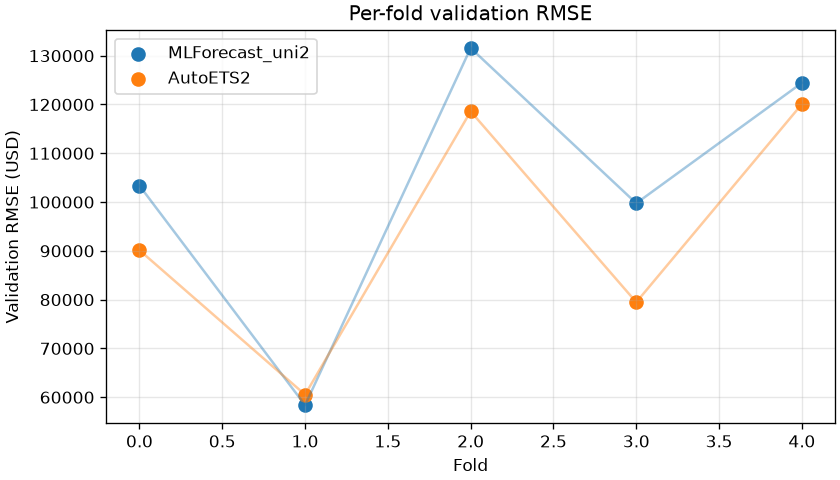
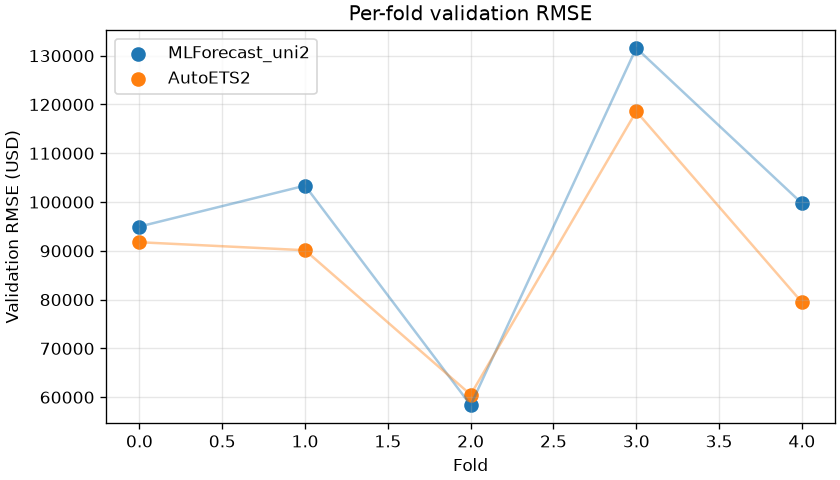
fix: keep diagnostic CV on the training window only
Revert 2024-H1 validation folds so mean±std stays train-only, document thin fold 0, and expand the README Forecast section for temporal CV diagnosis.

diff --git a/data/forecast/diagnostics.py b/data/forecast/diagnostics.py
@@ -56,20 +56,20 @@ PINNED_PRIOR = {
     "best_params": {"n_estimators": 200, "max_depth": None, "max_features": 1.0},
 }
 
-# Five non-overlapping 6-month blocks shifted later so fold 0 is not starved.
-# Span 2022-01…2024-06 (30 months). Fold 5 uses 2024-H1 from the former holdout
-# year for diagnostics only — main pipeline selection/holdout metrics stay on 2024–2025.
+# Five non-overlapping 6-month blocks on the **training window only** (2016–2023).
+# Last 30 months of train → 2021-07…2023-12. Fold 0 is thinner after differencing/`lag_12`
+# (see report note); do not extend into 2024 holdout for diagnostic mean±std.
 DATE_VALIDATION_WINDOWS: list[tuple[pd.Timestamp, pd.Timestamp]] = [
+    (pd.Timestamp("2021-07-01"), pd.Timestamp("2021-12-01")),
     (pd.Timestamp("2022-01-01"), pd.Timestamp("2022-06-01")),
     (pd.Timestamp("2022-07-01"), pd.Timestamp("2022-12-01")),
     (pd.Timestamp("2023-01-01"), pd.Timestamp("2023-06-01")),
     (pd.Timestamp("2023-07-01"), pd.Timestamp("2023-12-01")),
-    (pd.Timestamp("2024-01-01"), pd.Timestamp("2024-06-01")),
 ]
-DIAG_CV_END = pd.Timestamp("2024-06-01")
-PREVIOUS_WINDOWS_NOTE = (
-    "Previous design used 2021-07…2023-12 (train-only). Shifted later to thicken fold 0; "
-    "last fold scores 2024-01…2024-06 for diagnostics only."
+DIAG_CV_END = pd.Timestamp("2023-12-01")
+THIN_FOLD0_NOTE = (
+    "Fold 0 validates 2021-H2; after Differences([12]) + lag_12 dropna, usable n_train is "
+    "small (~31). Treat mean±std as a small-sample estimate inflated by that thin first fold."
 )
 
 
@@ -104,10 +104,7 @@ def _summary(values: list[float]) -> dict[str, float]:
 
 
 def diagnostic_cv_frame(cleaned: pd.DataFrame | None = None) -> pd.DataFrame:
-    """Series for diagnostic temporal CV: history through ``DIAG_CV_END`` (2024-06).
-
-    Includes early 2024 so five shifted 6-month folds fit with a thicker fold-0 train.
-    """
+    """Series for diagnostic temporal CV: **training window only** through ``DIAG_CV_END``."""
     if cleaned is None:
         cleaned = load_clean()
     work = cleaned.copy()
@@ -893,7 +890,8 @@ def run_all(
         "test_size_months": TEST_SIZE,
         "gap": GAP,
         "cv_frame_end": str(DIAG_CV_END.date()),
-        "window_redesign": PREVIOUS_WINDOWS_NOTE,
+        "training_window_only": True,
+        "thin_fold0_note": THIN_FOLD0_NOTE,
         "fold0_n_train": fold0_n_train,
         "selection_cv_defaults": {"n_windows": 5, "h": 6, "step_size": 6},
         "pinned_prior_selection": PINNED_PRIOR,
@@ -1013,14 +1011,13 @@ def write_diagnosis_report(
         "## 2. CV setup & integrity",
         "",
         f"- **Folds:** {cv['n_splits']} (≥5 required) × {cv['test_size_months']}-month "
-        "non-overlapping validation blocks on the diagnostic CV frame "
-        f"(through **{cv.get('cv_frame_end', '2024-06-01')}**).",
-        "- **Why 5×6:** comparable per-fold RMSE across engines; non-overlapping so std is not understated.",
-        f"- **Window redesign:** {cv.get('window_redesign', PREVIOUS_WINDOWS_NOTE)}",
-        f"- **Fold 0 train size:** ML fold 0 has `n_train={cv.get('fold0_n_train', 'n/a')}` "
-        "usable rows after differencing/`lag_12` — shifted later so this is no longer the starved "
-        "31-row fold from the 2021-07 start. Still interpret mean±std as a small-sample (5-fold) estimate.",
-        f"- **Engines:** ML → `sklearn.model_selection.TimeSeriesSplit` "
+        "non-overlapping validation blocks on the **training window only** "
+        f"(through **{cv.get('cv_frame_end', '2023-12-01')}**).",
+        "- **Why 5×6:** comparable per-fold RMSE across engines; non-overlapping so std is not understated. "
+        "Five × 12-month blocks do not fit after `Differences([12])` + `lag_12`.",
+        f"- **Fold 0 train size:** ML fold 0 has `n_train={cv.get('fold0_n_train', 'n/a')}`. "
+        f"{cv.get('thin_fold0_note', THIN_FOLD0_NOTE)}",
+        "- **Engines:** ML → `sklearn.model_selection.TimeSeriesSplit` "
         f"(gap={cv['gap']}); `{ets_label}` → `classical_backtest` / "
         "`StatsForecast.cross_validation` on model `AutoETS` (`n_windows=5`, `h=6`, `step_size=6`).",
         "- **Chronology:** no shuffle; every fold has `max(train ds) < min(val ds)`; "

diff --git a/tests/pipelines/test_temporal_cv_order.py b/tests/pipelines/test_temporal_cv_order.py
@@ -62,10 +62,12 @@ def test_ml_folds_roll_forward_no_overlap(fold_records: dict) -> None:
         assert earlier.isdisjoint(later)
 
 
-def test_fold0_thicker_than_prior_design(fold_records: dict) -> None:
-    """Shifted windows: fold 0 should have more history than the old ~31 usable train rows."""
-    assert fold_records["ml"][0]["n_train_rows"] >= 40
-    assert fold_records["ml"][0]["test_ds"][0] == pd.Timestamp("2022-01-01")
+def test_fold0_on_training_window(fold_records: dict) -> None:
+    """Diagnostic folds stay on train (2021-07…2023-12); fold 0 is the thin earliest block."""
+    assert fold_records["ml"][0]["test_ds"][0] == pd.Timestamp("2021-07-01")
+    assert fold_records["ml"][-1]["test_ds"][-1] == pd.Timestamp("2023-12-01")
+    # After burn-in, fold 0 has fewer usable train rows than later folds
+    assert fold_records["ml"][0]["n_train_rows"] < fold_records["ml"][-1]["n_train_rows"]
 
 
 def test_autoets_at_least_five_cutoffs(fold_records: dict) -> None:

diff --git a/README.md b/README.md
@@ -347,7 +347,7 @@ Further detail: [`memory-bank/references/telemetry_ai_plan/`](./memory-bank/refe
 
 ## Forecast (monthly revenue)
 
-Local Nixtla pipeline (**MLForecast** + **StatsForecast**) for consolidated monthly revenue. Work lands on **`feature/sales_forecast`**; temporal CV / fit diagnosis lands on **`feature/eval_metrics`** (branched from sales forecast).
+Local Nixtla pipeline (**MLForecast** + **StatsForecast**) for consolidated monthly revenue. Base training/reporting lives on **`feature/sales_forecast`**; this branch (**`feature/eval_metrics`**) adds **temporal cross-validation and fit diagnosis**.
 
 Requires the sales CSV at `data/raw/healthcore_sales.csv` (gitignored — local only).
 
@@ -355,10 +355,10 @@ Requires the sales CSV at `data/raw/healthcore_sales.csv` (gitignored — local 
 
 ```bash
 uv sync --group forecast
-uv run python scripts/train_revenue_forecast.py   # train, metrics, figures, forecast report
-# On feature/eval_metrics (after train, or standalone):
-uv run python scripts/run_diagnostics.py         # CV folds, learning curves, fit-diagnosis report
+uv run python scripts/train_revenue_forecast.py   # train, metrics, figures, forecast report (+ diagnostics hook)
+uv run python scripts/run_diagnostics.py         # CV folds, learning curves, fit-diagnosis report (standalone)
 uv run pytest tests/pipelines/test_temporal_cv_order.py -v
+uv run pytest tests/pipelines/ -v                # full forecast/pipeline suite
 ```
 
 ### Where the reports and artifacts are
@@ -368,20 +368,48 @@ uv run pytest tests/pipelines/test_temporal_cv_order.py -v
 | [`data/eval/revenue_forecast/report.md`](./data/eval/revenue_forecast/report.md) | Main forecast report (model comparison, ablation, plots, recommendation) |
 | [`data/eval/revenue_forecast/metrics.json`](./data/eval/revenue_forecast/metrics.json) | Holdout metrics, CV scores, recommendation payload |
 | [`data/eval/revenue_forecast/figures/`](./data/eval/revenue_forecast/figures/) | PNGs: per-model vs actual, prediction intervals, residuals, visits forecast |
-| [`data/eval/revenue_forecast/cv_fit_diagnosis_report.md`](./data/eval/revenue_forecast/cv_fit_diagnosis_report.md) | Temporal CV + fit diagnosis (`MLForecast_uni2`, `AutoETS2`) — **`feature/eval_metrics`** |
-| [`data/eval/revenue_forecast/diagnostics/`](./data/eval/revenue_forecast/diagnostics/) | `cv_folds.json`, `learning_curve.json`, learning-curve PNGs, fold strip — **`feature/eval_metrics`** |
+| [`data/eval/revenue_forecast/cv_fit_diagnosis_report.md`](./data/eval/revenue_forecast/cv_fit_diagnosis_report.md) | **Temporal CV + fit diagnosis report** (start here for over/under-fit) |
+| [`data/eval/revenue_forecast/diagnostics/`](./data/eval/revenue_forecast/diagnostics/) | Machine-readable CV / learning-curve outputs (see below) |
 | [`data/process/models/`](./data/process/models/) | Fitted model pickles (`.pkl`) written by the train script |
+
+#### Diagnostics folder (`data/eval/revenue_forecast/diagnostics/`)
+
+| File | Contents |
+|------|----------|
+| `cv_folds.json` | Per-fold train/val MAE+RMSE, mean±std, fold date windows, gap ablation |
+| `learning_curve.json` | Train vs val MAE/RMSE for prefixes `{36, 48, 60, 72, 84}` |
+| `learning_curve_mlforecast_uni2.png` | Learning curve for `MLForecast_uni2` |
+| `learning_curve_autoets2.png` | Learning curve for `AutoETS2` |
+| `learning_curve_elasticnet.png` | ElasticNet side curve (when ML path looks overfit) |
+| `fold_rmse_strip.png` | Per-fold validation RMSE strip plot |
+| `fit_classification.json` | Fit verdicts + corrective-action text |
+
+### Temporal CV and fit diagnosis (this branch)
+
+Validates that CV respects time order, reports **RMSE as mean ± std** across folds, builds **learning curves**, and classifies each in-scope model as **well-fitted / underfitting / overfitting** (with matching corrective actions).
+
+| Topic | What we do |
+|-------|------------|
+| **Models** | `MLForecast_uni2` (univariate RF via sklearn `TimeSeriesSplit`) and `AutoETS2` (StatsForecast `AutoETS` via `classical_backtest`) |
+| **Folds** | **5 × 6-month** non-overlapping blocks on the **training window only** (**2021-07…2023-12**), date-aligned across engines. Fold 0 is thinner after differencing/`lag_12` — mean±std is a small-sample estimate |
+| **Selection CV** | MLForecast learner-selection defaults raised to `n_windows=5`, `h=6` (was 3×12 on sales_forecast) |
+| **ML correctness** | Causal lag features, fold-local `Differences([12])`, **recursive** 6-month prediction inside each fold (no one-shot block peek) |
+| **Learning curve** | Expanding train prefixes ending before a **fixed 2023** validation year; prefix **84** ends **2022-12** so 2022 is not skipped |
+| **Business metric** | **RMSE** (√MSE in USD), also as % of mean monthly revenue; MAE reported alongside |
+| **Tests** | [`tests/pipelines/test_temporal_cv_order.py`](./tests/pipelines/test_temporal_cv_order.py) — chronology, alignment, determinism, no shuffling splitters |
+
+Authoritative write-up: [`cv_fit_diagnosis_report.md`](./data/eval/revenue_forecast/cv_fit_diagnosis_report.md). Specs/plans: [`memory-bank/references/sales_forecast_ai_plan/`](./memory-bank/references/sales_forecast_ai_plan/) (`healthcore_cv_diagnosis_*`).
 
 ### Code and plans
 
 | Path | Role |
 |------|------|
-| `data/forecast/` | Clean, features, MLForecast, StatsForecast, metrics, plotting, diagnostics |
-| `scripts/train_revenue_forecast.py` | End-to-end train + evaluate (+ diagnostics hook on eval_metrics) |
-| `scripts/run_diagnostics.py` | Standalone diagnostics entrypoint (`feature/eval_metrics`) |
+| `data/forecast/` | Clean, features, MLForecast, StatsForecast, metrics, plotting, **`diagnostics.py`** |
+| `scripts/train_revenue_forecast.py` | End-to-end train + evaluate + diagnostics hook |
+| `scripts/run_diagnostics.py` | Standalone temporal CV / learning-curve / report entrypoint |
 | `tests/pipelines/test_revenue_*.py` | Split / leakage / validation / pattern tests |
-| `tests/pipelines/test_temporal_cv_order.py` | Chronological CV integrity (`feature/eval_metrics`) |
-| [`memory-bank/references/sales_forecast_ai_plan/`](./memory-bank/references/sales_forecast_ai_plan/) | Specs, implementation plans, eval criteria |
+| `tests/pipelines/test_temporal_cv_order.py` | Chronological CV integrity for both engines |
+| [`memory-bank/references/sales_forecast_ai_plan/`](./memory-bank/references/sales_forecast_ai_plan/) | Forecast + CV diagnosis specs, implementation plan, eval criteria |
 
 ---
 

diff --git a/data/eval/revenue_forecast/cv_fit_diagnosis_report.md b/data/eval/revenue_forecast/cv_fit_diagnosis_report.md
@@ -4,8 +4,8 @@
 
 | Model | Fit verdict | CV RMSE (mean ± std) | Corrective action |
 |---|---|---|---|
-| MLForecast_uni2(rf) | **overfitting** | $103,498 ± $28,617 | Constrain MLForecast_uni2(rf): set max_depth (e.g. 3–5), raise min_samples_leaf, max_features < 1.0, and/or fewer estimators. |
-| AutoETS2 | **well-fitted** | $93,757 ± $25,643 | Ship classical AutoETS (diagnosed here as AutoETS2); keep this CV/learning-curve suite as a regression guard. |
+| MLForecast_uni2(rf) | **overfitting** | $97,608 ± $26,157 | Constrain MLForecast_uni2(rf): set max_depth (e.g. 3–5), raise min_samples_leaf, max_features < 1.0, and/or fewer estimators. |
+| AutoETS2 | **well-fitted** | $88,096 ± $21,104 | Ship classical AutoETS (diagnosed here as AutoETS2); keep this CV/learning-curve suite as a regression guard. |
 
 - Diagnostic ML target: `MLForecast_uni2(rf)` with params `{'max_depth': None, 'max_features': 1.0, 'n_estimators': 200}`.
 - Diagnostic classical label: `AutoETS2` (StatsForecast `AutoETS` under this diagnosis suite).
@@ -13,13 +13,12 @@
 
 ## 2. CV setup & integrity
 
-- **Folds:** 5 (≥5 required) × 6-month non-overlapping validation blocks on the diagnostic CV frame (through **2024-06-01**).
-- **Why 5×6:** comparable per-fold RMSE across engines; non-overlapping so std is not understated.
-- **Window redesign:** Previous design used 2021-07…2023-12 (train-only). Shifted later to thicken fold 0; last fold scores 2024-01…2024-06 for diagnostics only.
-- **Fold 0 train size:** ML fold 0 has `n_train=37` usable rows after differencing/`lag_12` — shifted later so this is no longer the starved 31-row fold from the 2021-07 start. Still interpret mean±std as a small-sample (5-fold) estimate.
+- **Folds:** 5 (≥5 required) × 6-month non-overlapping validation blocks on the **training window only** (through **2023-12-01**).
+- **Why 5×6:** comparable per-fold RMSE across engines; non-overlapping so std is not understated. Five × 12-month blocks do not fit after `Differences([12])` + `lag_12`.
+- **Fold 0 train size:** ML fold 0 has `n_train=31`. Fold 0 validates 2021-H2; after Differences([12]) + lag_12 dropna, usable n_train is small (~31). Treat mean±std as a small-sample estimate inflated by that thin first fold.
 - **Engines:** ML → `sklearn.model_selection.TimeSeriesSplit` (gap=0); `AutoETS2` → `classical_backtest` / `StatsForecast.cross_validation` on model `AutoETS` (`n_windows=5`, `h=6`, `step_size=6`).
 - **Chronology:** no shuffle; every fold has `max(train ds) < min(val ds)`; validation blocks are contiguous and roll forward; `TimeSeriesSplit` never shuffles.
-- **Date alignment:** both engines score the same calendar windows `[('2022-01-01', '2022-06-01'), ('2022-07-01', '2022-12-01'), ('2023-01-01', '2023-06-01'), ('2023-07-01', '2023-12-01'), ('2024-01-01', '2024-06-01')]`.
+- **Date alignment:** both engines score the same calendar windows `[('2021-07-01', '2021-12-01'), ('2022-01-01', '2022-06-01'), ('2022-07-01', '2022-12-01'), ('2023-01-01', '2023-06-01'), ('2023-07-01', '2023-12-01')]`.
 - **Selection CV change:** MLForecast learner-selection defaults raised from **n_windows=3, h=12** (shipped) to **n_windows=5, h=6**. Classical `classical_backtest` was already 5-fold.
 
 - **Pipeline recommendation after 5-fold retrain:** primary classical `AutoETS`; regression path `MLForecast_exog` (visits help=True). Prior 3-fold narrative preferred univariate when visits lift was weak — note any flip; learner identity for uni/exog remains pinned above when unchanged.
@@ -28,23 +27,23 @@
 
 | Fold | Window | ML n_train | ML val RMSE | AutoETS2 val RMSE |
 |---:|---|---:|---:|---:|
-| 0 | 2022-01-01…2022-06-01 | 37 | $103,365 | $90,130 |
-| 1 | 2022-07-01…2022-12-01 | 43 | $58,379 | $60,529 |
-| 2 | 2023-01-01…2023-06-01 | 49 | $131,567 | $118,584 |
-| 3 | 2023-07-01…2023-12-01 | 55 | $99,750 | $79,469 |
-| 4 | 2024-01-01…2024-06-01 | 61 | $124,429 | $120,071 |
+| 0 | 2021-07-01…2021-12-01 | 31 | $94,978 | $91,767 |
+| 1 | 2022-01-01…2022-06-01 | 37 | $103,365 | $90,130 |
+| 2 | 2022-07-01…2022-12-01 | 43 | $58,379 | $60,529 |
+| 3 | 2023-01-01…2023-06-01 | 49 | $131,567 | $118,584 |
+| 4 | 2023-07-01…2023-12-01 | 55 | $99,750 | $79,469 |
 
 - ML val RMSE min/max: $58,379 / $131,567 (small-sample std caveat: only 5 folds).
-- AutoETS2 val RMSE min/max: $60,529 / $120,071.
+- AutoETS2 val RMSE min/max: $60,529 / $118,584.
 
 ## 3. Metrics table (train & validation)
 
 | Model | Stage | MAE (mean ± std) | RMSE (mean ± std) | RMSE % mean train revenue |
 |---|---|---|---|---|
-| MLForecast_uni2(rf) | Train | $29,130 ± $2,377 | $37,166 ± $1,635 | — |
-| MLForecast_uni2(rf) | Validation | $90,942 ± $27,899 | $103,498 ± $28,617 | 3.8% |
-| AutoETS2 | Train | $58,111 ± $1,808 | $69,537 ± $1,816 | — |
-| AutoETS2 | Validation | $82,573 ± $25,573 | $93,757 ± $25,643 | 3.4% |
+| MLForecast_uni2(rf) | Train | $28,126 ± $1,865 | $36,254 ± $1,494 | — |
+| MLForecast_uni2(rf) | Validation | $82,671 ± $26,183 | $97,608 ± $26,157 | 3.5% |
+| AutoETS2 | Train | $57,173 ± $2,107 | $68,676 ± $1,854 | — |
+| AutoETS2 | Validation | $77,164 ± $21,721 | $88,096 ± $21,104 | 3.2% |
 
 Mean monthly train revenue ≈ **$2,754,918**.
 
@@ -90,8 +89,8 @@ CONTEXT §3 asks to *"report MSE in USD², and also as a percentage of average m
 
 **RMSE is the business-cost metric.** It is √MSE in interpretable dollars and penalizes large errors disproportionately — matching the cost of a planning-breaking revenue miss (over/under-staffing, misinformed executive decisions). A single $500k miss is worse than ten $50k misses; RMSE reflects that, MAE treats them as equal.
 
-- ML CV RMSE as % of mean monthly train revenue: **3.8%**.
-- AutoETS2 CV RMSE as % of mean monthly train revenue: **3.4%**.
+- ML CV RMSE as % of mean monthly train revenue: **3.5%**.
+- AutoETS2 CV RMSE as % of mean monthly train revenue: **3.2%**.
 - MAE is reported alongside for “average dollars off” interpretability.
 
 ## 6. Fit diagnosis
@@ -99,13 +98,13 @@ CONTEXT §3 asks to *"report MSE in USD², and also as a percentage of average m
 ### MLForecast_uni2(rf) → **overfitting**
 
 - Learning-curve (largest prefix): train RMSE $35,355, val RMSE $120,743, gap $85,388 (relative 71%).
-- CV: train RMSE $37,166, val RMSE $103,498 ± $28,617, CV gap $66,332 (relative 64%), fold CV 0.28.
+- CV: train RMSE $36,254, val RMSE $97,608 ± $26,157, CV gap $61,354 (relative 63%), fold CV 0.27.
 - Guardrail: For tree models, near-zero train RMSE is the overfitting signature; diagnose on the val−train gap, not absolute train error. Do not compare tree train error to AutoETS in-sample residuals as like-for-like.
 
 ### AutoETS2 → **well-fitted**
 
 - Learning-curve (largest prefix): train RMSE $68,009, val RMSE $103,575, gap $35,565 (relative 34%).
-- CV: train RMSE $69,537, val RMSE $93,757 ± $25,643, CV gap $24,219 (relative 26%), fold CV 0.27.
+- CV: train RMSE $68,676, val RMSE $88,096 ± $21,104, CV gap $19,420 (relative 22%), fold CV 0.24.
 - Guardrail: Classical AutoETS train error is genuine in-sample residual, not memorization. Learning-curve val error from early prefixes includes a long multi-step horizon into 2023 (trend), so CV train/val gap is the primary fit signal.
 
 ## 7. Method note
@@ -129,9 +128,9 @@ CONTEXT §3 asks to *"report MSE in USD², and also as a percentage of average m
 
 ## Stretch notes
 
-- **Purged gap=1 A/B:** gap=0 val RMSE $103,498 ± $28,617; gap=1 val RMSE $106,112 ± $27,837.
+- **Purged gap=1 A/B:** gap=0 val RMSE $97,608 ± $26,157; gap=1 val RMSE $99,223 ± $25,494.
 - Per-fold RMSE strip: `diagnostics/fold_rmse_strip.png`.
-- **SeasonalNaive-in-CV** val RMSE $164,589 ± $49,374 (skill context vs MLForecast_uni2 / AutoETS2 fold RMSE).
+- **SeasonalNaive-in-CV** val RMSE $163,407 ± $49,039 (skill context vs MLForecast_uni2 / AutoETS2 fold RMSE).
 
 ## 9. Limitations
 

diff --git a/memory-bank/decisions.md b/memory-bank/decisions.md
@@ -366,5 +366,5 @@ The registry is a **transcription** of the manual-test wiring in `apps/src/main.
 - Decision: Pin prior 3-fold shipped uni selection in the report; diagnose the 5-fold uni winner as **`MLForecast_uni2`** (and classical as **`AutoETS2`**); corrective actions are report-only (no hyperparameter retune beyond CV defaults).
 - Why: Stakeholder clarifying Q&A; diagnosis honesty without silently mutating the shipped model.
 
-- Decision: Shift diagnostic 5×6 validation windows to **2022-01…2024-06** (last fold uses 2024-H1 for diagnostics only) so fold 0 is thicker than the prior 2021-07 start.
-- Why: Address thin fold-0 / inflated std; keep ≥5 non-overlapping 6-month folds and cross-engine date alignment.
+- Decision: Diagnostic 5×6 validation windows stay on the **training window only** (**2021-07…2023-12**). A brief experiment shifted into 2024-H1 to thicken fold 0; that was reverted because it mixed holdout months into diagnostic mean±std. Thin fold 0 is documented instead.
+- Why: Specs require training-window CV; mean±std must not silently include test-period folds.